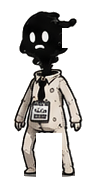
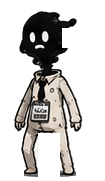
fix: PR #17 2차 리뷰 반영 (나머지) — 코드·문서 변경분
직전 커밋(4d3b579)에서 git add 명령에 존재하지 않는 경로(.gitkeep,
이미 삭제 처리됨)가 섞여 명령 전체가 실패하는 바람에 배경 이미지
파일 변경만 커밋되고 소스 변경분이 누락됐다 — 그 나머지를 커밋한다.

배영환 2차 리뷰(https://github.com/BaeYoungHwan/NAN2026/pull/17) 반영:
- core/round.ts: ROUND_BACKGROUND_BRIGHTNESS 추가 — 라운드별 배경
  어둡기 배율(직전 커밋에서 round2/3.png를 stage.png 한 장 + 이
  배율로 대체)
- ui/backgroundArt.ts: Record<Round,...> 3장 로드 → 단일 이미지
  로드로 축소
- ui/drawStage.ts: round 파라미터 추가해 어둡기 오버레이 적용,
  docstring을 불투명 벽 구현에 맞게 정정, dusk/vignette 그라디언트
  stage당 1회 캐싱, hexToRgbString 6자리 hex 방어, buildWallLayer
  getContext 실패 시 경고, 중복 shadowBlur=0 제거
- ui/GameCanvas.tsx: drawStage에 round 전달, "보라 계열" 주석을
  실제 색상에 맞게 정정, restart()를 seedForRound(DEFAULT_SEED, 1)로
  통일
- core/debugRound.ts: import.meta.env.DEV 게이팅 — 프로덕션
  빌드에서 ?round= 파싱 코드가 트리쇼킹으로 제거됨을 빌드 산출물로 확인
- App.tsx: ?round=2/3 프리뷰 시 오프닝 컷신 자동 스킵
- background-art-prompt-guide.md: 라이선스 체크리스트에 실제 채택
  도구(GPT) 기록 — 소유권·약관·해커톤 규정 확인은 미완료로 남김
- scripts/crop-regions.mjs: body-idle-pose 다리 사이/오른쪽 바깥
  erase가 신발 픽셀을 1~3px 침범하던 좌표 조정 및 스프라이트 재생성

tsc --noEmit / vitest run(111/111) / npm run build 모두 통과.

Confidence: high

diff --git a/src/ui/drawStage.ts b/src/ui/drawStage.ts
@@ -1,14 +1,55 @@
 import type { Stage } from "../core/stage";
+import { ROUND_BACKGROUND_BRIGHTNESS, type Round } from "../core/round";
 
 /**
  * `#rrggbb` 헥스 문자열을 `"r, g, b"` 콤마 구분 문자열로 변환한다 —
  * `rgba(${...}, alpha)` 템플릿에 그대로 끼워 넣기 위함. 촛불 색을 hex 하나로만
  * 받고 여기서 rgb를 파생시켜, 두 표현을 따로 넘기다 하나만 바뀌어 어긋나는
- * 실수를 구조적으로 막는다.
+ * 실수를 구조적으로 막는다. `#rrggbb`(6자리) 형식만 지원 — 호출부가 전부 이
+ * 파일 안의 하드코딩 리터럴이라 실사용 위험은 없지만, `#fff` 같은 축약형이
+ * 들어오면 조용히 틀린 값을 내므로 방어적으로 걸러낸다.
  */
 function hexToRgbString(hex: string): string {
+  if (!/^#[0-9a-fA-F]{6}$/.test(hex)) {
+    console.warn(`hexToRgbString: "#rrggbb" 형식이 아님 — ${hex}`);
+    return "255, 255, 255";
+  }
   const value = parseInt(hex.slice(1), 16);
   return `${(value >> 16) & 0xff}, ${(value >> 8) & 0xff}, ${value & 0xff}`;
+}
+
+/**
+ * dusk(세로 그라디언트)·vignette(방사형 그라디언트)는 mapWidth/mapHeight로만
+ * 결정되는데, 이 값은 stage가 바뀌기 전까지 상수다 — 그런데도 매 프레임(rAF)
+ * `createLinearGradient`/`createRadialGradient`를 새로 호출하고 있었다(PR #17
+ * 리뷰). `wallLayerCache`와 같은 이유로 같은 패턴을 적용한다: `CanvasGradient`는
+ * 그걸 만든 컨텍스트에 종속되지 않으므로(Path2D처럼 이식 가능한 객체) stage당
+ * 한 번만 만들어 WeakMap에 캐싱해도 안전하다.
+ */
+const atmosphereCache = new WeakMap<Stage, { dusk: CanvasGradient; vignette: CanvasGradient }>();
+
+function buildAtmosphere(
+  ctx: CanvasRenderingContext2D,
+  mapWidth: number,
+  mapHeight: number,
+): { dusk: CanvasGradient; vignette: CanvasGradient } {
+  const dusk = ctx.createLinearGradient(0, 0, 0, mapHeight);
+  dusk.addColorStop(0, "rgba(24, 18, 36, 0.6)");
+  dusk.addColorStop(0.55, "rgba(12, 9, 18, 0.55)");
+  dusk.addColorStop(1, "rgba(5, 4, 8, 0.62)");
+
+  const vignette = ctx.createRadialGradient(
+    mapWidth / 2,
+    mapHeight / 2,
+    mapHeight * 0.25,
+    mapWidth / 2,
+    mapHeight / 2,
+    mapHeight * 0.75,
+  );
+  vignette.addColorStop(0, "rgba(0, 0, 0, 0)");
+  vignette.addColorStop(1, "rgba(0, 0, 0, 0.4)");
+
+  return { dusk, vignette };
 }
 
 /**
@@ -30,7 +71,14 @@ function buildWallLayer(stage: Stage): HTMLCanvasElement {
   layer.width = mapWidth;
   layer.height = mapHeight;
   const ctx = layer.getContext("2d");
-  if (!ctx) return layer;
+  if (!ctx) {
+    // 2D 컨텍스트를 못 만들면(jsdom 등 canvas 미지원 환경) 빈 캔버스가 그대로
+    // wallLayerCache에 캐싱돼 벽이 계속 안 보이게 된다 — 충돌 판정(collider)은
+    // grid 데이터로 별도 동작하므로 게임 자체는 멈추지 않지만, 눈에 보이지 않는
+    // 벽에 부딪히는 것처럼 보일 수 있어 최소한 콘솔에 남긴다.
+    console.warn("buildWallLayer: 2D 컨텍스트 생성 실패 — 벽 레이어가 비어 있음");
+    return layer;
+  }
 
   const isWall = (row: number, col: number): boolean => {
     if (row < 0 || row >= grid.rows || col < 0 || col >= grid.cols) return true;
@@ -42,7 +90,7 @@ function buildWallLayer(stage: Stage): HTMLCanvasElement {
   // 애초에 정의해 둔 "바닥보다 확실히 어두운 석재 턱(raised stone curb/ledge),
   // 베벨진 위쪽 모서리에 밝은 rim + 바닥과 맞닿는 부분의 은은한 AO 그림자"라는
   // 실제 벽 재질 스펙을 그대로 코드로 옮긴다. 채우기 자체도 배경 사진 평균 색
-  // (round1.png ≈ rgb(125,112,91))과 같은 따뜻한 무채색 계열의 어두운 버전으로 —
+  // (stage.png ≈ rgb(125,112,91))과 같은 따뜻한 무채색 계열의 어두운 버전으로 —
   // 검정이나 보라가 아니라 "같은 돌바닥의 그림자 진 부분"처럼 보이게 한다.
   ctx.fillStyle = "rgba(40, 36, 31, 0.92)";
   for (let row = 0; row < grid.rows; row++) {
@@ -119,18 +167,20 @@ function buildWallLayer(stage: Stage): HTMLCanvasElement {
 }
 
 /**
- * 스테이지 배경과 지형(벽 셀)·골 지점을 그린다. 배경은 라운드별 정적 아트
- * (`backgroundArt.ts`)이고, 벽은 시드마다 통로 모양이 달라지는 절차적 타일이라
- * 배경 그림과 픽셀 단위로 맞지 않는다 — 그래서 벽을 불투명 사각형이 아니라
- * "그림자 세계의 경계"처럼 보이는 반투명 오버레이로 그려, 배경과 정확히 겹치지
- * 않아도 위화감이 적게 만든다. 배경 이미지가 없으면(로드 실패·미확보) 기존
- * 단색 배경으로 폴백한다.
+ * 스테이지 배경과 지형(벽 셀)·골 지점을 그린다. 배경은 라운드 공통 정적 아트
+ * 한 장(`backgroundArt.ts`)이고, 벽은 시드마다 통로 모양이 달라지는 절차적
+ * 타일이라 배경 그림과 픽셀 단위로 맞지 않는다 — 그래서 벽을 배경과 뚜렷이
+ * 구분되는 불투명한 석재 턱(채우기+AO+베벨)으로 그려, 절차적 타일과 정적
+ * 배경이 같은 자리를 공유하지 않아도 "이건 그림"과 "이건 지형"이 헷갈리지
+ * 않게 한다. 배경 이미지가 없으면(로드 실패·미확보) 기존 단색 배경으로
+ * 폴백한다.
  */
 export function drawStage(
   ctx: CanvasRenderingContext2D,
   stage: Stage,
   background: HTMLImageElement | null,
   checkpointsPassed: readonly boolean[],
+  round: Round,
 ): void {
   const { grid } = stage;
   const mapWidth = grid.cols * grid.tileSize;
@@ -140,6 +190,15 @@ export function drawStage(
     ctx.drawImage(background, 0, 0, mapWidth, mapHeight);
   } else {
     ctx.fillStyle = "#111";
+    ctx.fillRect(0, 0, mapWidth, mapHeight);
+  }
+
+  // 라운드가 올라갈수록 어두워지는 연출 — round2/3 전용 PNG를 따로 굽는 대신
+  // (동일 배경을 밝기만 바꿔 재저장하면 픽셀은 사실상 같은데 파일만 늘어난다,
+  // PR #17 리뷰) 이 검정 오버레이 alpha로 밝기를 낮춘다.
+  const brightness = ROUND_BACKGROUND_BRIGHTNESS[round];
+  if (brightness < 1) {
+    ctx.fillStyle = `rgba(0, 0, 0, ${1 - brightness})`;
     ctx.fillRect(0, 0, mapWidth, mapHeight);
   }
 
@@ -155,24 +214,14 @@ export function drawStage(
   // 고이듯 더 짙어지는 세로 그라디언트로 깊이감을 준다. 그 위에 맵 중심에서
   // 가장자리로 갈수록 짙어지는 비네트를 한 겹 더 얹어, 통로 구석이 화면 프레임처럼
   // 딱 잘리지 않고 자연스럽게 어둠 속으로 스며들게 한다.
-  const dusk = ctx.createLinearGradient(0, 0, 0, mapHeight);
-  dusk.addColorStop(0, "rgba(24, 18, 36, 0.6)");
-  dusk.addColorStop(0.55, "rgba(12, 9, 18, 0.55)");
-  dusk.addColorStop(1, "rgba(5, 4, 8, 0.62)");
-  ctx.fillStyle = dusk;
+  let atmosphere = atmosphereCache.get(stage);
+  if (!atmosphere) {
+    atmosphere = buildAtmosphere(ctx, mapWidth, mapHeight);
+    atmosphereCache.set(stage, atmosphere);
+  }
+  ctx.fillStyle = atmosphere.dusk;
   ctx.fillRect(0, 0, mapWidth, mapHeight);
-
-  const vignette = ctx.createRadialGradient(
-    mapWidth / 2,
-    mapHeight / 2,
-    mapHeight * 0.25,
-    mapWidth / 2,
-    mapHeight / 2,
-    mapHeight * 0.75,
-  );
-  vignette.addColorStop(0, "rgba(0, 0, 0, 0)");
-  vignette.addColorStop(1, "rgba(0, 0, 0, 0.4)");
-  ctx.fillStyle = vignette;
+  ctx.fillStyle = atmosphere.vignette;
   ctx.fillRect(0, 0, mapWidth, mapHeight);
 
   // 벽 채우기+AO+베벨은 stage가 바뀌기 전까지 절대 안 변하는 정적 레이어라
@@ -311,5 +360,4 @@ export function drawStage(
   });
 
   drawCandleMark(stage.goal.x, stage.goal.y, "#f5a623");
-  ctx.shadowBlur = 0;
 }

diff --git a/src/ui/GameCanvas.tsx b/src/ui/GameCanvas.tsx
@@ -226,7 +226,7 @@ const GameCanvas = forwardRef<GameCanvasHandle, GameCanvasProps>(function GameCa
   // 마지막 수평 이동 방향 — 스프라이트가 원본은 오른쪽을 보고 있으므로 왼쪽 이동 시 좌우 반전한다.
   const facingRightRef = useRef(true);
   const [sprites, setSprites] = useState<CharacterSprites | null>(null);
-  const [backgrounds, setBackgrounds] = useState<Record<Round, HTMLImageElement | null> | null>(null);
+  const [background, setBackground] = useState<HTMLImageElement | null>(null);
 
   useEffect(() => {
     let cancelled = false;
@@ -244,7 +244,7 @@ const GameCanvas = forwardRef<GameCanvasHandle, GameCanvasProps>(function GameCa
     let cancelled = false;
     loadBackgroundArt()
       .then((loaded) => {
-        if (!cancelled) setBackgrounds(loaded);
+        if (!cancelled) setBackground(loaded);
       })
       .catch((error) => console.error(error));
     return () => {
@@ -271,9 +271,12 @@ const GameCanvas = forwardRef<GameCanvasHandle, GameCanvasProps>(function GameCa
       // ?round= 디버그 진입점과 무관하게 항상 1R부터 다시 시작한다 — "재시작"은
       // 게임을 처음부터 다시 플레이한다는 의미이지, 프리뷰 중이던 라운드로
       // 돌아오는 버튼이 아니다. ?round=2/3으로 들어와 프리뷰하다 재시작을 누르면
-      // 1R로 넘어가는 게 의도된 동작이다.
+      // 1R로 넘어가는 게 의도된 동작이다. `seedForRound(DEFAULT_SEED, 1) ===
+      // DEFAULT_SEED`가 항상 성립해 `generateStage(DEFAULT_SEED)`와 결과가
+      // 같지만(초기화 로직 참고), 그 항등식이 나중에 바뀌면 여기가 조용히
+      // 어긋날 수 있으므로 `seedForRound`를 명시적으로 거쳐 대칭을 유지한다.
       restart: () => {
-        loadStage(generateStage(DEFAULT_SEED));
+        loadStage(generateStage(seedForRound(DEFAULT_SEED, 1)));
         roundRef.current = 1;
         onRoundChange?.(1, false);
         clearedRef.current = false;
@@ -428,7 +431,7 @@ const GameCanvas = forwardRef<GameCanvasHandle, GameCanvasProps>(function GameCa
       // farthestProgressRef는 단조증가이므로, 통과한 세이브 포인트는 이후 계속 true로 유지된다.
       const checkpointsPassed = stage.checkpointProgress.map((p) => farthestProgressRef.current >= p);
 
-      renderFrame(ctx, stage, sprites, backgrounds?.[roundRef.current] ?? null, {
+      renderFrame(ctx, stage, sprites, background, {
         characterPos: characterRef.current,
         shadowAngle: shadowAngleRef.current,
         bodyPose,
@@ -451,7 +454,7 @@ const GameCanvas = forwardRef<GameCanvasHandle, GameCanvasProps>(function GameCa
 
     frameId = requestAnimationFrame(draw);
     return () => cancelAnimationFrame(frameId);
-  }, [inputRef, onDeathCountChange, onRoundChange, inputDisabled, sprites, backgrounds]);
+  }, [inputRef, onDeathCountChange, onRoundChange, inputDisabled, sprites, background]);
 
   return (
     <>
@@ -760,12 +763,14 @@ function renderFrame(
   ctx.scale(CAMERA_ZOOM, CAMERA_ZOOM);
   ctx.translate(-camX, -camY);
 
-  drawStage(ctx, stage, background, checkpointsPassed);
+  drawStage(ctx, stage, background, checkpointsPassed, round);
 
-  // 안전 구역 가이드라인 — 1R에서만 표시 (2R부터 제거, PRD §7-1). 보라는
-  // background-art-prompt-guide.md 컬러 팔레트에서 "안전 구역 경계선 UI 전용"으로
-  // 예약된 색이라(배경/타일 프롬프트에도 명시), 이 가이드라인과 아래 벽 오버레이는
-  // 항상 같은 보라 계열을 써서 "위험 경계"라는 의미를 통일한다.
+  // 안전 구역 가이드라인 — 1R에서만 표시 (2R부터 제거, PRD §7-1). 이 연분홍
+  // (#dcafbe)은 background-art-prompt-guide.md 컬러 팔레트가 "안전구역 경계선
+  // UI 전용"으로 예약해 둔 포인트색이다. 벽 오버레이는 이 PR에서 석재 턱
+  // 재질(따뜻한 무채색, drawStage.ts의 buildWallLayer 참고)로 바뀌었으므로 더
+  // 이상 같은 색 계열이 아니다 — "위험 경계"라는 의미는 형태(부채꼴 vs 턱)로만
+  // 구분한다.
   if (isGuideVisible(round)) {
     ctx.beginPath();
     ctx.moveTo(characterPos.x, characterPos.y);

diff --git a/src/ui/backgroundArt.ts b/src/ui/backgroundArt.ts
@@ -1,12 +1,5 @@
-import type { Round } from "../core/round";
-
 const ASSET_BASE = `${import.meta.env.BASE_URL}assets/backgrounds/`;
-
-const BACKGROUND_FILES: Record<Round, string> = {
-  1: "round1.png",
-  2: "round2.png",
-  3: "round3.png",
-};
+const BACKGROUND_FILE = "stage.png";
 
 function loadImage(fileName: string): Promise<HTMLImageElement> {
   return new Promise((resolve, reject) => {
@@ -18,19 +11,16 @@ function loadImage(fileName: string): Promise<HTMLImageElement> {
 }
 
 /**
- * 라운드별 배경 이미지를 로드한다. 아직 배경 에셋이 준비되지 않은 라운드가 있어도
- * 게임 진행이 막히지 않도록, 해당 라운드만 null로 남기고 나머지는 정상 로드한다
- * (drawStage가 null이면 기존 단색 배경으로 폴백한다).
+ * 스테이지 배경 이미지를 로드한다. 라운드마다 별도 PNG를 두지 않고 한 장을
+ * 공유한다 — 라운드별 명암 차이는 `drawStage`가 `ROUND_BACKGROUND_BRIGHTNESS`
+ * 배율로 그려서 낸다(PR #17 리뷰: round2/3.png가 round1.png를 밝기만 바꿔
+ * 다시 구운 것이라 4.6MB가 순수 중복이었다). 로드에 실패해도 게임 진행이
+ * 막히지 않도록 null을 반환하고, `drawStage`는 null이면 단색 배경으로 폴백한다.
  */
-export async function loadBackgroundArt(): Promise<Record<Round, HTMLImageElement | null>> {
-  const entries = await Promise.all(
-    (Object.entries(BACKGROUND_FILES) as [string, string][]).map(async ([round, file]) => {
-      try {
-        return [Number(round) as Round, await loadImage(file)] as const;
-      } catch {
-        return [Number(round) as Round, null] as const;
-      }
-    }),
-  );
-  return Object.fromEntries(entries) as Record<Round, HTMLImageElement | null>;
+export async function loadBackgroundArt(): Promise<HTMLImageElement | null> {
+  try {
+    return await loadImage(BACKGROUND_FILE);
+  } catch {
+    return null;
+  }
 }

diff --git a/src/core/debugRound.ts b/src/core/debugRound.ts
@@ -4,8 +4,15 @@ import type { Round } from "./round";
  * 개발용 임시 진입점 — URL에 ?round=2 또는 ?round=3을 붙이면 해당 라운드로 바로
  * 시작한다(절차적 생성 맵 확인용, 정식 기능 아님). App/GameCanvas 양쪽이 같은
  * 시작 라운드를 봐야 하므로(HUD 표시 vs 실제 스테이지) 한곳에서만 정의한다.
+ *
+ * `import.meta.env.DEV`로 게이팅해 프로덕션 빌드(Pages 배포본)에서는 쿼리
+ * 파라미터를 완전히 무시한다 — 심사 대상 빌드에서 ?round=3으로 1R/2R을
+ * 건너뛸 수 있으면 안 되기 때문(PR #17 리뷰). Vite/Vitest는 프로덕션
+ * 모드(`vite build`)가 아닌 한 `DEV`가 true이므로 dev 서버·테스트 실행에는
+ * 영향이 없다.
  */
 export function debugRoundFromQuery(): Round {
+  if (!import.meta.env.DEV) return 1;
   const value = Number(new URLSearchParams(window.location.search).get("round"));
   return value === 2 || value === 3 ? value : 1;
 }

diff --git a/src/App.tsx b/src/App.tsx
@@ -17,7 +17,10 @@ function App() {
   const [round, setRound] = useState<Round>(debugRoundFromQuery);
   const [dialogueQueue, setDialogueQueue] = useState<string[]>([]);
   const [dialogueAutoDismissMs, setDialogueAutoDismissMs] = useState<number | undefined>(undefined);
-  const [showOpening, setShowOpening] = useState(true);
+  // ?round=2/3 디버그 프리뷰로 들어온 경우(개발 빌드 한정 — debugRoundFromQuery
+  // 참고) 오프닝 컷신을 건너뛴다. 절차적 생성 맵을 빠르게 확인하려는 목적과
+  // 오프닝이 항상 뜨는 게 어긋난다는 지적(PR #17 리뷰) 반영.
+  const [showOpening, setShowOpening] = useState(() => round === 1);
   const [showEnding, setShowEnding] = useState(false);
   const gameCanvasRef = useRef<GameCanvasHandle>(null);
 

diff --git a/src/core/round.ts b/src/core/round.ts
@@ -102,3 +102,15 @@ export function effectiveAngleTolerance(round: Round, baseTolerance: number): nu
 export function controlsReversed(round: Round): boolean {
   return isDemeritRound(round);
 }
+
+/**
+ * 라운드별 배경 밝기 배율 — `backgroundArt.ts`가 로드하는 배경 이미지 한 장을
+ * 라운드마다 다른 밝기로 보여주기 위한 값(PR #17 리뷰: round2/3용 PNG를 밝기만
+ * 다르게 별도로 구워 4.6MB를 중복 보관하고 있었다). 값이 작을수록 어둡다 —
+ * 라운드가 올라갈수록 시야가 좁아지는 긴장감을 준다.
+ */
+export const ROUND_BACKGROUND_BRIGHTNESS: Record<Round, number> = {
+  1: 1,
+  2: 0.65,
+  3: 0.3,
+};

diff --git a/docs/design-docs/background-art-prompt-guide.md b/docs/design-docs/background-art-prompt-guide.md
@@ -122,9 +122,11 @@ no courtyard, no flat blueprint/schematic/map-diagram look, no isometric grid ov
 
 ## 라이선스 체크리스트 (제출 전 필수 — 아직 미확인)
 
-- [ ] 사용한 각 도구(GPT/마누스/제미나이)의 생성 이미지에 대한 **소유권·상업적 사용 허용 여부** 약관 확인
+> 실제 채택 도구: **GPT (이미지 생성)** — 현재 `public/assets/backgrounds/stage.png`(구 round1.png)로 반영된 배경이 이 도구로 생성됨. 도구명만 기록해 둔 상태이고, 아래 소유권·약관·하케톤 규정 확인은 여전히 미완료(PR #17 리뷰 지적 — 역추적 가능성만 확보, 최종 확인은 배영환·송원호 몫).
+
+- [ ] GPT 생성 이미지에 대한 **소유권·상업적 사용 허용 여부** 약관 확인
 - [ ] 하케톤 규정상 AI 생성 에셋 사용이 허용되는지, 출처 명시 의무가 있는지 확인
-- [ ] 최종 채택 도구 1곳으로 확정 후, 해당 이미지 생성 시 사용한 프롬프트를 AI 활용 기술 문서(제출물 5종 중 하나)에 기록
+- [ ] 실제 사용한 프롬프트를 AI 활용 기술 문서(제출물 5종 중 하나)에 기록
 
 ## 완료 기준
 
@@ -134,7 +136,7 @@ no courtyard, no flat blueprint/schematic/map-diagram look, no isometric grid ov
 
 ## 다음 단계
 
-1. 사용자가 직접 GPT/마누스/제미나이에 프롬프트 입력 → 결과 이미지 확보
-2. 개발 서버에서 배경 이미지를 임시로 캔버스에 깔아 가독성 테스트
-3. 라이선스 확인 후 최종 채택, AI 활용 기술 문서에 프롬프트 기록
+1. ~~사용자가 직접 GPT/마누스/제미나이에 프롬프트 입력 → 결과 이미지 확보~~ 완료 — GPT로 확보
+2. ~~개발 서버에서 배경 이미지를 임시로 캔버스에 깔아 가독성 테스트~~ 완료
+3. 라이선스 확인 후 최종 채택 확정, AI 활용 기술 문서에 프롬프트 기록 (미완료)
 4. (후속 작업) 저승청 NPC 소품 요소 추가, 오프닝/엔딩 컷신 이미지 프롬프트 별도 설계
